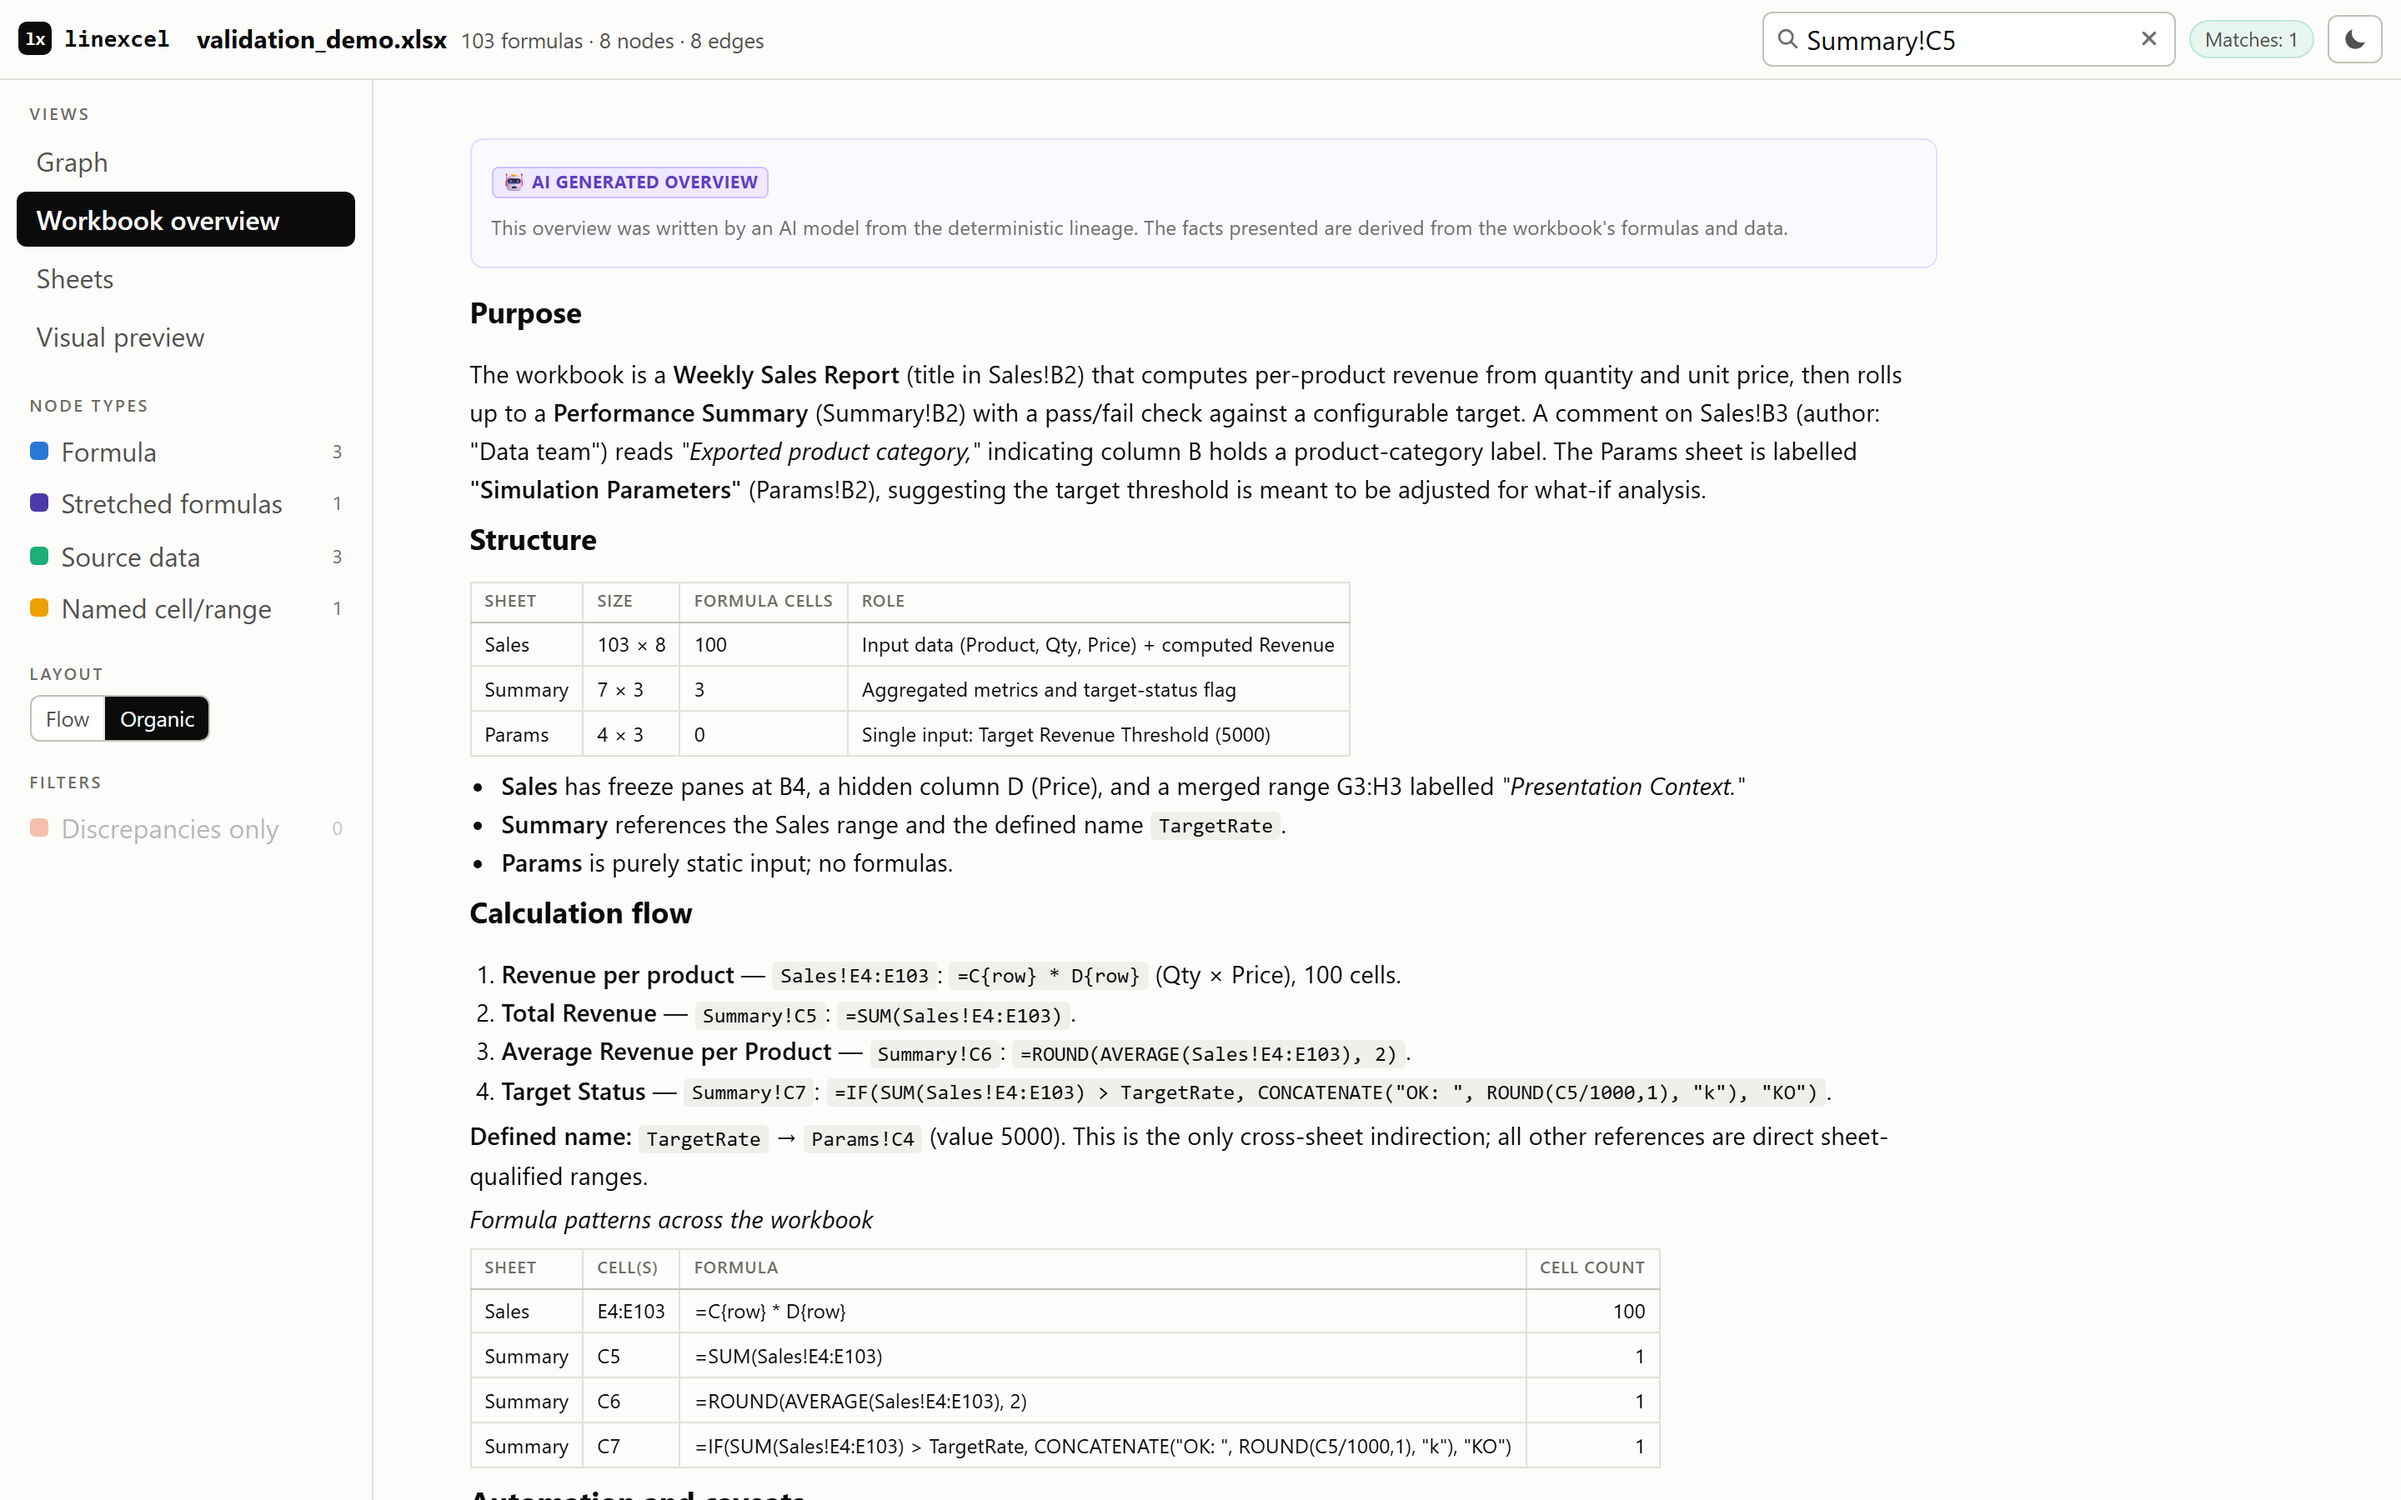
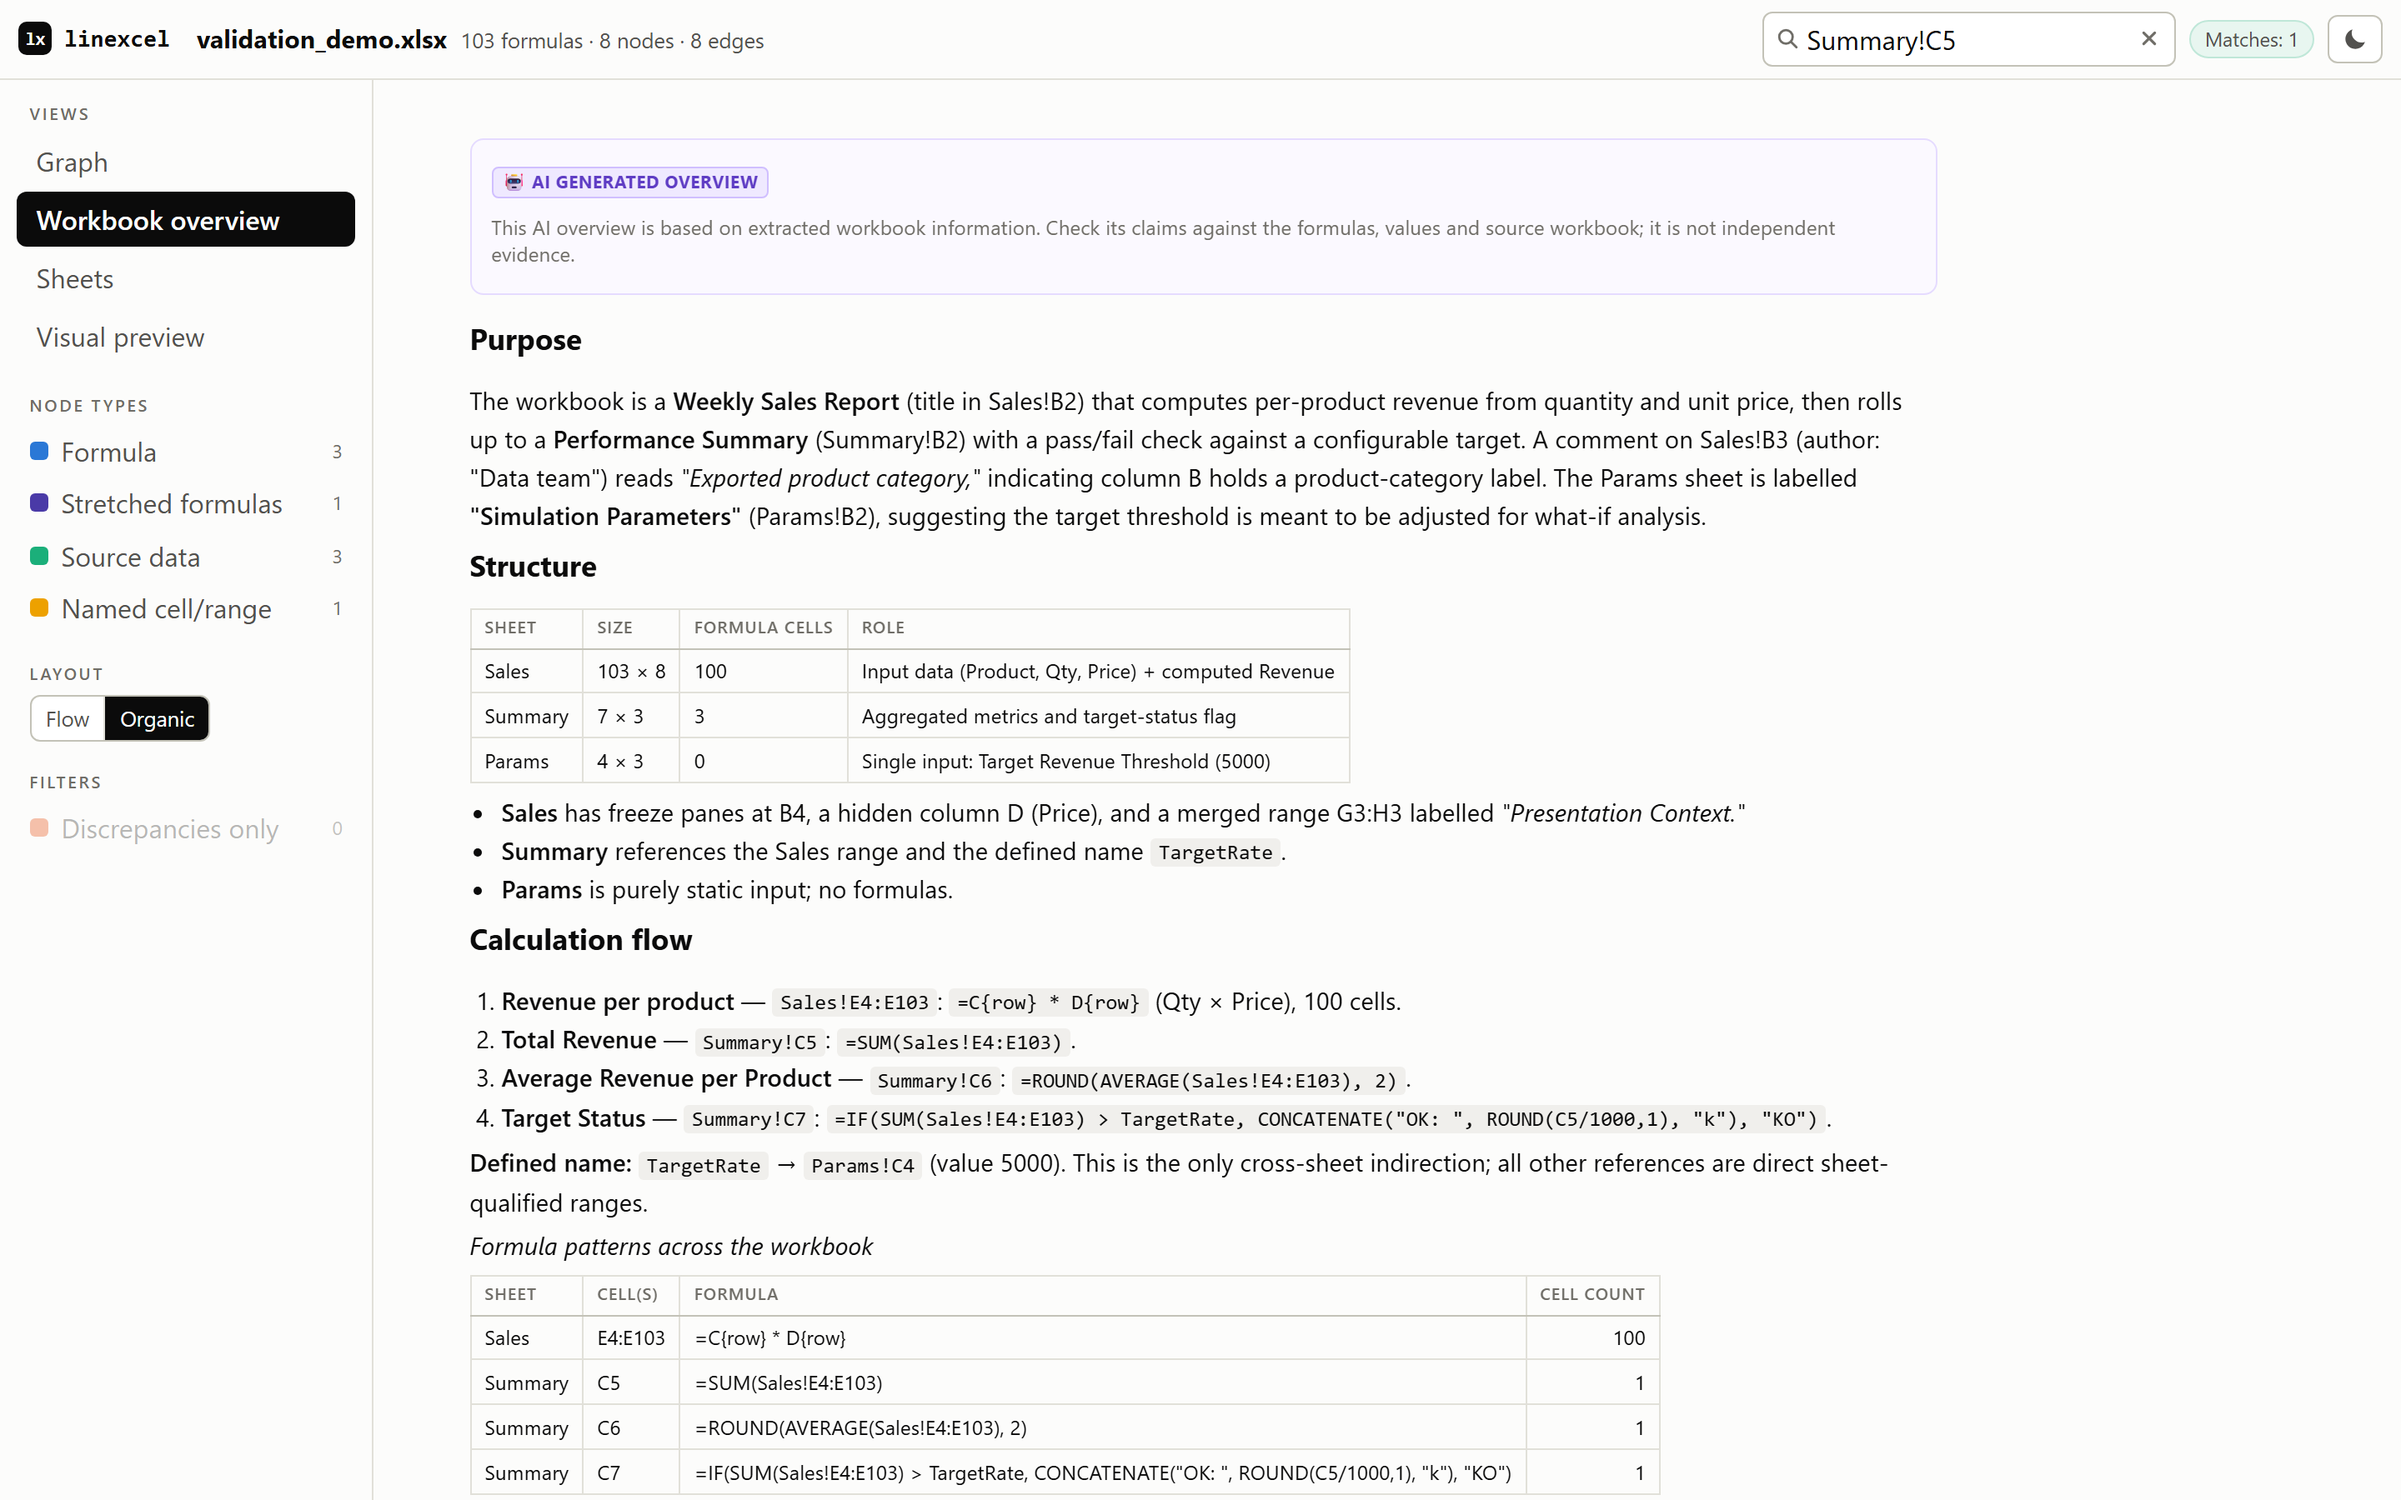
fix: identify recalculation engine and qualify AI overview claims

Changed region(s): [[0.1875, 0.1244, 0.7812, 1.0], [0.625, 0.84, 0.6875, 0.9022]]

diff --git a/src/linexcel/i18n.py b/src/linexcel/i18n.py
@@ -117,9 +117,9 @@ UI_STRINGS: dict[str, dict[str, str]] = {
         "ai_vision": "🤖 AI description — check against the screenshot",
         "ai_overview": "🤖 AI Generated Overview",
         "ai_overview_desc": (
-            "This overview was written by an AI model from the deterministic "
-            "lineage. The facts presented are derived from the workbook's "
-            "formulas and data."
+            "This AI overview is based on extracted workbook information. "
+            "Check its claims against the formulas, values and source workbook; "
+            "it is not independent evidence."
         ),
         "fallback": (
             "Cytoscape could not be loaded (CDN access required). The JSON "
@@ -265,9 +265,9 @@ UI_STRINGS: dict[str, dict[str, str]] = {
         "ai_vision": "🤖 Description IA — à vérifier sur la capture",
         "ai_overview": "🤖 Synthèse Générée par IA",
         "ai_overview_desc": (
-            "Cette synthèse a été rédigée par un modèle d'IA à partir du "
-            "lignage de calculs déterministe. Les faits présentés proviennent "
-            "des formules et des données du classeur."
+            "Cette synthèse IA s'appuie sur les informations extraites du classeur. "
+            "Vérifiez ses affirmations avec les formules, les valeurs et le classeur "
+            "source ; elle ne constitue pas une preuve indépendante."
         ),
         "fallback": (
             "Cytoscape n'a pas pu être chargé (accès CDN requis). Le graphe "
@@ -413,9 +413,9 @@ UI_STRINGS: dict[str, dict[str, str]] = {
         "ai_vision": "🤖 Descripción IA — verificar en la captura",
         "ai_overview": "🤖 Resumen generado por IA",
         "ai_overview_desc": (
-            "Este resumen ha sido redactado por un modelo de IA a partir del "
-            "linaje de cálculos determinista. Los hechos presentados proceden "
-            "de las fórmulas y los datos del libro."
+            "Este resumen de IA se basa en la información extraída del libro. "
+            "Compruebe sus afirmaciones con las fórmulas, los valores y el libro "
+            "original; no constituye una prueba independiente."
         ),
         "fallback": (
             "No se pudo cargar Cytoscape (se requiere acceso al CDN). El grafo "
@@ -563,9 +563,9 @@ UI_STRINGS: dict[str, dict[str, str]] = {
         "ai_vision": "🤖 KI-Beschreibung — am Screenshot prüfen",
         "ai_overview": "🤖 KI-generierter Überblick",
         "ai_overview_desc": (
-            "Dieser Überblick wurde von einem KI-Modell auf Basis der "
-            "deterministischen Berechnungsherkunft verfasst. Die dargestellten "
-            "Fakten stammen aus den Formeln und Daten der Arbeitsmappe."
+            "Dieser KI-Überblick basiert auf extrahierten Informationen aus der "
+            "Arbeitsmappe. Prüfen Sie die Aussagen anhand der Formeln, Werte und "
+            "Originalarbeitsmappe; er ist kein unabhängiger Nachweis."
         ),
         "fallback": (
             "Cytoscape konnte nicht geladen werden (CDN-Zugriff erforderlich). "
@@ -713,9 +713,9 @@ UI_STRINGS: dict[str, dict[str, str]] = {
         "ai_vision": "🤖 Descrizione IA — verificare sulla schermata",
         "ai_overview": "🤖 Panoramica generata dall'IA",
         "ai_overview_desc": (
-            "Questa panoramica è stata redatta da un modello di IA a partire "
-            "dalla derivazione deterministica dei calcoli. I fatti presentati "
-            "provengono dalle formule e dai dati della cartella di lavoro."
+            "Questa panoramica IA si basa sulle informazioni estratte dalla "
+            "cartella di lavoro. Verificate le affermazioni con le formule, i valori "
+            "e la cartella originale; non costituisce una prova indipendente."
         ),
         "fallback": (
             "Impossibile caricare Cytoscape (è necessario l'accesso al CDN). "
@@ -861,9 +861,9 @@ UI_STRINGS: dict[str, dict[str, str]] = {
         "ai_vision": "🤖 Descrição IA — verificar na captura",
         "ai_overview": "🤖 Visão geral gerada por IA",
         "ai_overview_desc": (
-            "Esta visão geral foi redigida por um modelo de IA a partir da "
-            "linhagem determinista dos cálculos. As informações apresentadas "
-            "provêm das fórmulas e dos dados da pasta de trabalho."
+            "Esta visão geral de IA baseia-se nas informações extraídas da pasta "
+            "de trabalho. Verifique as afirmações nas fórmulas, nos valores e na "
+            "pasta original; não constitui uma prova independente."
         ),
         "fallback": (
             "Não foi possível carregar o Cytoscape (é necessário acesso ao "
@@ -1011,9 +1011,9 @@ UI_STRINGS: dict[str, dict[str, str]] = {
         "ai_vision": "🤖 AI-beschrijving — controleer op de schermafbeelding",
         "ai_overview": "🤖 Door AI gegenereerd overzicht",
         "ai_overview_desc": (
-            "Dit overzicht is geschreven door een AI-model op basis van de "
-            "deterministische herkomst van de berekeningen. De weergegeven "
-            "gegevens komen uit de formules en gegevens van de werkmap."
+            "Dit AI-overzicht is gebaseerd op informatie uit de werkmap. "
+            "Controleer de beweringen aan de hand van de formules, waarden en "
+            "oorspronkelijke werkmap; het is geen onafhankelijk bewijs."
         ),
         "fallback": (
             "Cytoscape kon niet worden geladen (CDN-toegang vereist). De "
@@ -1156,8 +1156,9 @@ UI_STRINGS: dict[str, dict[str, str]] = {
         "ai_vision": "🤖 AIの説明 — スクリーンショットで確認してください",
         "ai_overview": "🤖 AI が生成した概要",
         "ai_overview_desc": (
-            "この概要は、決定論的に抽出された計算系統に基づいて AI モデルが"
-            "作成したものです。記載内容はブックの数式とデータに由来します。"
+            "この AI 概要は、ブックから抽出した情報に基づいています。"
+            "記載内容を数式、値、元のブックと照合してください。"
+            "この概要は独立した証拠にはなりません。"
         ),
         "fallback": (
             "Cytoscape を読み込めませんでした（CDN へのアクセスが必要です）。"
@@ -1292,8 +1293,9 @@ UI_STRINGS: dict[str, dict[str, str]] = {
         "ai_vision": "🤖 AI 描述 — 请对照截图核实",
         "ai_overview": "🤖 AI 生成的概览",
         "ai_overview_desc": (
-            "本概览由 AI 模型根据确定性的计算血缘生成。"
-            "所述内容均来自工作簿的公式与数据。"
+            "本 AI 概览基于从工作簿中提取的信息。"
+            "请对照公式、数值和源工作簿核实其中的说法；"
+            "本概览不构成独立证据。"
         ),
         "fallback": (
             "无法加载 Cytoscape（需要访问 CDN）。"

diff --git a/src/linexcel/aidoc.py b/src/linexcel/aidoc.py
@@ -520,7 +520,7 @@ def build_dossier(graph: dict[str, Any], node_id: str) -> dict[str, Any] | None:
     return _build_dossier(_index_dossiers(graph), node_id)
 
 
-def _index_dossiers(graph: dict[str, Any]) -> tuple[dict, dict, dict]:
+def _index_dossiers(graph: dict[str, Any]) -> tuple[dict, dict, dict, dict]:
     """Index adjacency once for a batch, instead of rescanning every edge."""
     nodes = {n["id"]: n for n in graph["nodes"]}
     incoming: dict[str, list[dict]] = {}
@@ -528,11 +528,11 @@ def _index_dossiers(graph: dict[str, Any]) -> tuple[dict, dict, dict]:
     for edge in graph["edges"]:
         incoming.setdefault(edge["target"], []).append(edge)
         outgoing.setdefault(edge["source"], []).append(edge)
-    return nodes, incoming, outgoing
+    return nodes, incoming, outgoing, graph.get("meta", {})
 
 
-def _build_dossier(index: tuple[dict, dict, dict], node_id: str) -> dict | None:
-    nodes, incoming, outgoing = index
+def _build_dossier(index: tuple[dict, dict, dict, dict], node_id: str) -> dict | None:
+    nodes, incoming, outgoing, meta = index
     node = nodes.get(node_id)
     if node is None:
         return None
@@ -553,6 +553,7 @@ def _build_dossier(index: tuple[dict, dict, dict], node_id: str) -> dict | None:
         "computed_value": node.get("value")
         if node.get("valueSource") == "engine"
         else None,
+        "recalculation_engine": meta.get("engine", "unspecified"),
         **_value_evidence(node),
         "value_samples": node.get("samples"),
         "decomposition": _compact_steps(node.get("steps")),

diff --git a/tests/test_doc_evidence.py b/tests/test_doc_evidence.py
@@ -39,6 +39,7 @@ def test_provider_receives_disagreement_and_partial_neighbor_evidence():
         {"id": f"S!B{i}", "value": i, "valueSource": "file"} for i in range(1, 36)
     ]
     graph = {
+        "meta": {"engine": "formualizer (Rust)"},
         "nodes": [node, *neighbors],
         "edges": [{"source": n["id"], "target": node["id"]} for n in neighbors],
     }
@@ -51,6 +52,7 @@ def test_provider_receives_disagreement_and_partial_neighbor_evidence():
     document_nodes(graph, [node["id"]], provider=provider)
     dossier = received[0]
     assert dossier["computed_value"] == 0
+    assert dossier["recalculation_engine"] == "formualizer (Rust)"
     assert dossier["cached_value"] == 42
     assert dossier["cached_agreement"] == "differ"
     assert dossier["group_cached_agreement"] == "differ"

diff --git a/CHANGELOG.md b/CHANGELOG.md
@@ -48,12 +48,12 @@ and this project adheres to [Semantic Versioning](https://semver.org/spec/v2.0.0
   by the engine's criteria and does not imply a unique fixed point.
 - **Self-closing XML cells cannot capture a following cell's formula.** The
   quarantine scan no longer backtracks quadratically over styled empty cells.
-- **AI dossiers preserve value provenance and uncertainty.** Cached or volatile
+- **AI dossiers preserve engine identity, value provenance and uncertainty.** Cached or volatile
   snapshots are not labeled recalculated, disagreements and omitted neighbors
   are explicit, and useful calculation steps are retained before extra neighbor
   examples. Prompts in all nine languages reject unsupported explanations of
   discrepancies and extrapolations across sparse groups. Vision descriptions
-  are labeled for checking against the source image.
+  and overviews are labeled for checking against the original evidence.
 - **Viewer Markdown handles nested lists and inline formatting in headings.**
   Spreadsheet errors and unevaluated steps no longer use the successful-result
   style. Sheet context displays extraction warnings and unknown dimensions.
